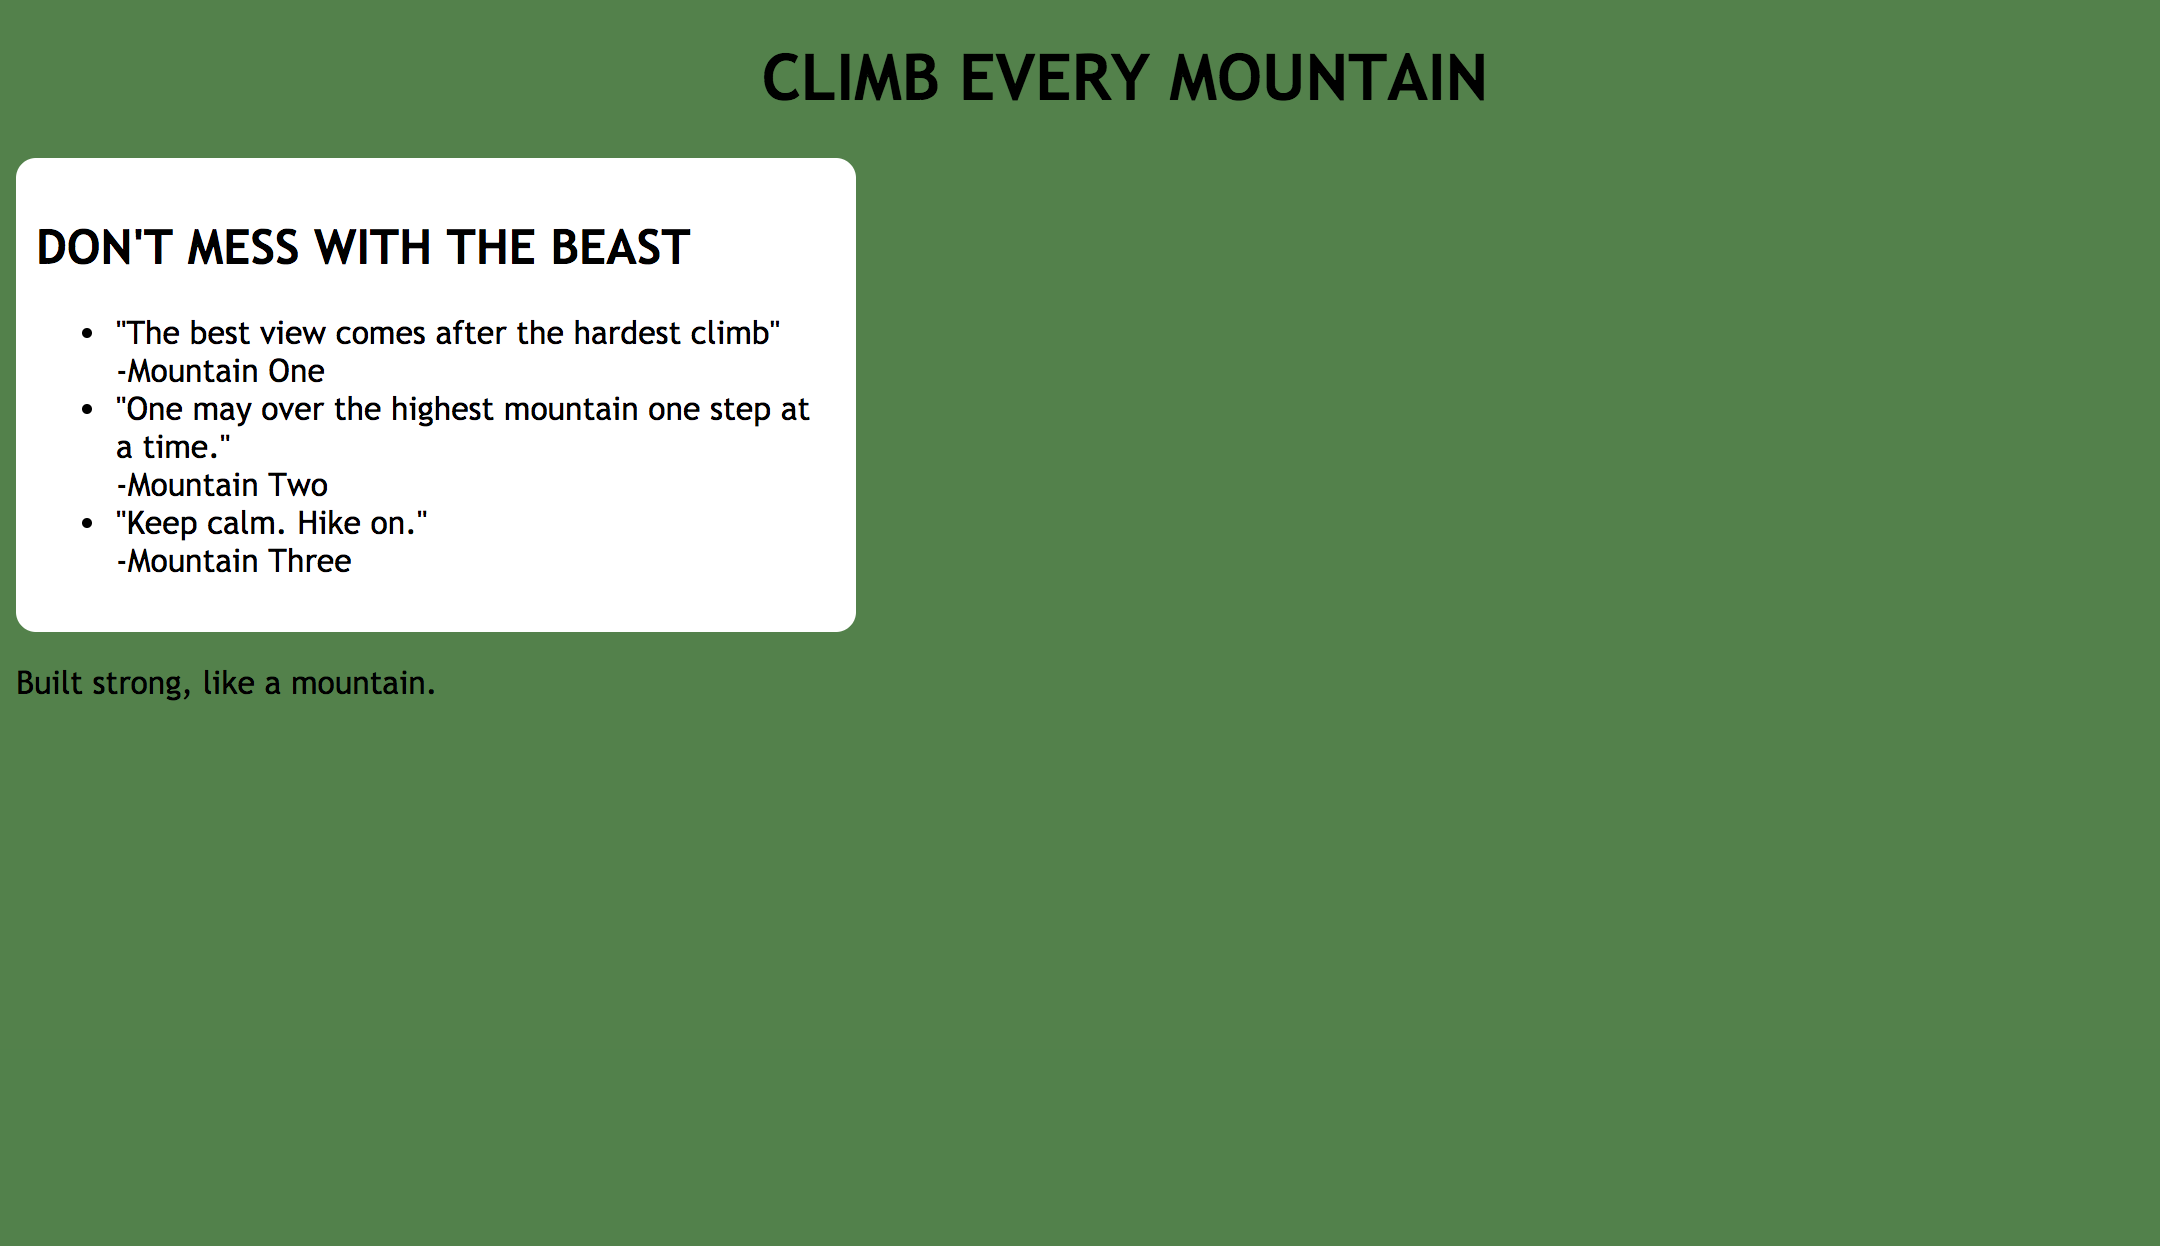
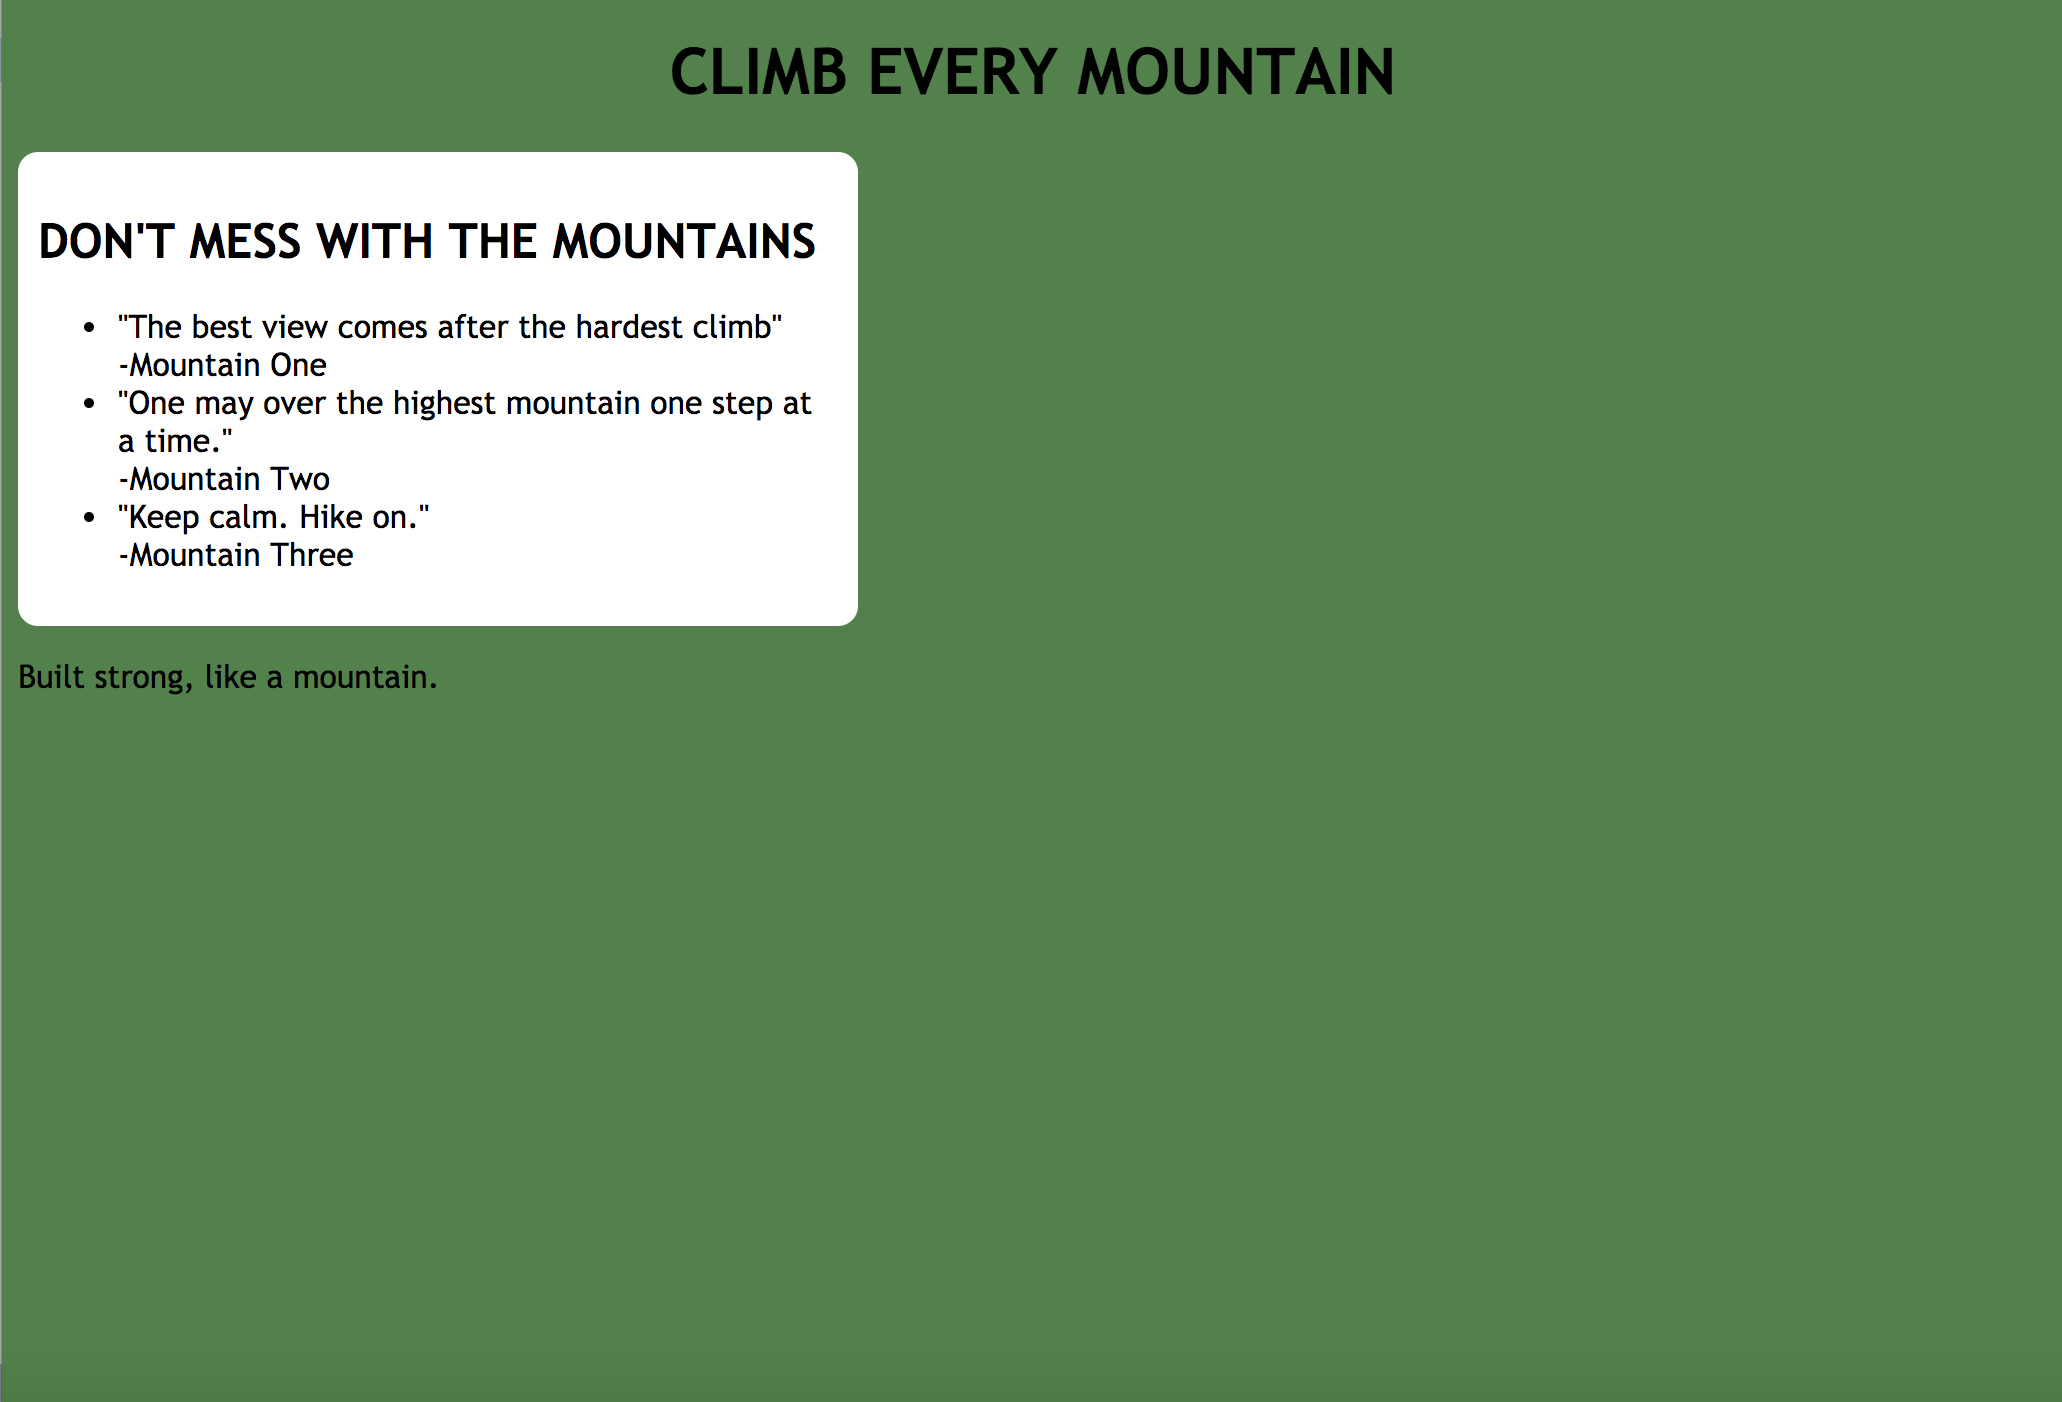
fix images and add html

Changed region(s): [[0.0, 0.0305, 0.6828, 0.5795]]

diff --git a/index.html b/index.html
@@ -1,9 +1,32 @@
 <!DOCTYPE html>
 <html>
 <head>
-  <title></title>
+  <link rel="stylesheet" type="text/css" href="style.css">
+  <title>CLIMB!</title>
 </head>
 <body>
-
+    <div class="background">
+        <h1 class="title">CLIMB EVERY MOUNTAIN</h1>
+        <div id="quote-box">
+            <h2>DON'T MESS WITH THE MOUNTAINS</h2>
+            <ul>
+                <li class="quote">
+                    "The best view comes after the hardest climb"
+                    <div class="author">-Mountain One</div>
+                </li>
+                <li class="quote">
+                    "One may over the highest mountain one step at a time." 
+                    <div class="author">-Mountain Two</div>
+                </li>
+                <li class="quote">
+                    "Keep calm. Hike on." 
+                    <div class="author">-Mountain Three</div>
+                </li>
+            </ul>
+        </div>
+        <div id="built-strong-box">
+            <p>Built strong, like a mountain.</p>
+        </div>
+    </div> 
 </body>
 </html>

diff --git a/README.md b/README.md
@@ -18,15 +18,15 @@
 * If you are having trouble getting the gradient to go across the whole page. Try adding `background-attachment: fixed;`
 * Make all of the `author`s a smaller font size.
 * Put a border around the `built-strong-box` .
-* Change the color of the text inside to white.
-* Center the text.
-* Make the width shorter.
-* Use the CSS `float` property to move this box to the right. Hint: Google CSS float property
+* Change the color of the text inside `built-strong-box` to white.
+* Center the text in `built-strong-box`.
+* Make the width of the `built-strong-box` shorter.
+* Use the CSS `float` property to move the box. Hint: Google "CSS float property".
 
 
 ## Level Three
 ![level three](/images/level-3.png)
-* Change the `background` from a `linear-gradient` to be the mountain image that is in your `images` folder. Check out this [link](https://teamtreehouse.com/community/how-do-i-add-a-background-image-in-the-css-file) for help. HINT: You are not using a link so you will be accessing the image with something like `url(images/example.jpg)`.
+* Change the `background` from a `linear-gradient` to be the mountain image in your `images` folder. Check out this [link](https://teamtreehouse.com/community/how-do-i-add-a-background-image-in-the-css-file) for help. HINT: You are not using a link so you will be accessing the image with something like `url(images/example.jpg)`.
 * Can you only see the clouds in your background image?? Resize the image to fit the page. HINT: the answer is on the same [link](https://teamtreehouse.com/community/how-do-i-add-a-background-image-in-the-css-file) from above.
 * Increase the `font-size` of your heading.
 
@@ -43,6 +43,11 @@
 * Once you get the `<li>` side by side use `border-left` to create a line inbetween each quote.
 * Add some `padding` so that there is some space inbetween the border and words
 * Make the quotes italicized
+* Change the `quote-box` to have an transparent background using an `rgba()` color. GOOGLE rgba() color
+
+## Level Five
+* User `hover` to make something happen when you hover over the `built-strong-box`. Here's a good place too learn about `hover` : https://www.w3schools.com/cssref/sel_hover.asp be sure to click on the "Try it yourself button"
+* Add some more HTML and style it anyway your choose!
 
 
 
